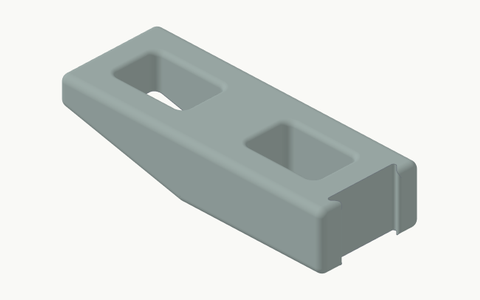
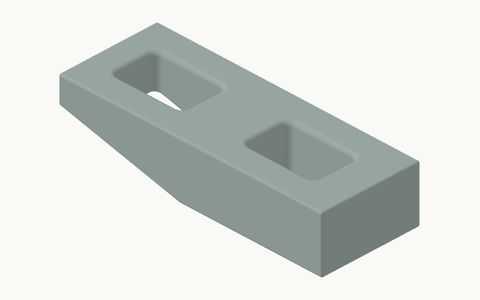
Refresh portable comfort-rounding gallery
Record the constrained rail-end radii, rerender the affected thumbnails, and bind the gallery inventory to the cross-platform geometry commit.\n\nCo-authored-by: Copilot App <223556219+Copilot@users.noreply.github.com>

diff --git a/tools/render_docs.py b/tools/render_docs.py
@@ -24,7 +24,7 @@ from cargo_grid.catalogue import BRACKET_DISPLAY_NAMES, accessory_variants
 ROOT = Path(__file__).resolve().parents[1]
 BUILD = BuildVolume(350, 320, 325)
 WORKBENCH_REVISION = "c3f63ef8d8604d3ec7eeba40a229047887c03d86"
-GEOMETRY_REVISION = "0cc079ee252b459930d032757fd16a28833005e7"
+GEOMETRY_REVISION = "c53211171c6830f05a10022e829bc279d91ea9d5"
 GEOMETRY_FILES = (
     "parameters.py",
     "interfaces.py",
@@ -668,7 +668,7 @@ def compose_all(work: Path, provenance: dict) -> None:
         "",
         "Normal `vertical-stop` names give base X cells, base Y cells and H60/H120 shoulder height. They are filled CAD wedges with no wall holes, panel connectors or ledges. The slicer still chooses perimeters and infill.",
         "",
-        "Original-style edge/corner bodies and rail outer bodies use R3. Plates and angled stops use R2. Brackets use R2 on thick free edges and R1 around the thin bearing lip; normal stops and ramps keep R2. Tile joints, rail joints, bracket bearing surfaces and X attachments keep their mating geometry.",
+        "Original-style edge/corner bodies and straight rail bodies use R3. The acute rail ends use smaller complete rounds where required by fit and portable STEP checks. Plates and angled stops use R2. Brackets use R2 on thick free edges and R1 around the thin bearing lip; normal stops and ramps keep R2. Tile joints, rail joints, bracket bearing surfaces and X attachments keep their mating geometry.",
         "",
         "Bambu projects put original brackets on their diagonal rear face, shallow brackets on a broad side, normal stops on their broad rear face and angled stops on their rear face before packing. STEP, STL and core 3MF keep model orientation. Ramps, normal stops and shallow brackets request object-level normal Auto support. Remove all support from mating regions before assembly.",
         "",

diff --git a/AGENTS.md b/AGENTS.md
@@ -13,7 +13,7 @@
 - Keep the eight `vertical-stop` variants at explicit 1x1, 1x2, 2x1 and 2x2 bases crossed with H60/H120 shoulder heights. They are full-width filled wedges with no wall holes, open ribs, panel plugs or ledges; 2x1/H120 uses the natural wedge, not a raised 45-degree toe. Preserve the coupled R2 blend on every free exterior edge and exact X plugs/roots. Object-scoped normal Auto is intentional; 1x1/H120 and 2x1/H120 support can enter the mounting region and require removal/fit review.
 - Keep both `lock-45` variants as full-width filled wedges, not the earlier open-backed wall/web construction. Preserve the 45-degree cargo face, 4.1 mm toe, 6 mm horizontal cap, R2 coupled across all 18 free body edges, exact X connectors/roots, unchanged outer bounds and X=-135-degree Bambu pose. Do not add object-scoped support; the bounded native OFF/Auto checks were support-free.
 - Bambu exports apply plate X=180 body-down, each original bracket's computed retangent rear-face-down X rotation, shallow-bracket Y=-90, per-design normal-stop broad-rear-face-down and angled-stop X=-135 before fit checks and packing; source STEP/STL/core 3MF retain model orientation. Record exact transforms and artifact-specific applied flags.
-- Use R3 on original-style edge/corner bodies and rail/support outer bodies, R3/R2 on rail windows, R2 on plate and angled-stop bodies, mixed R2/R1 on brackets, and R2 on normal stops/ramps. Apply exact tile/support dovetails and X connectors after rounding their nonfunctional bodies. Keep experimental full-height rounding separate. Do not relax geometry or mesh tolerances to accommodate kernel failures.
+- Use R3 on original-style edge/corner bodies and straight rail/support bodies, R3/R2 on straight rail windows, R2 on plate and angled-stop bodies, mixed R2/R1 on brackets, and R2 on normal stops/ramps. Rail ends use their tested per-variant body/window/rim radii from `accessories.py`; do not replace them with one blanket value. Apply exact tile/support dovetails and X connectors after rounding their nonfunctional bodies. Keep experimental full-height rounding separate. Do not relax geometry or mesh tolerances to accommodate kernel failures.
 - CLI names encode units and meaning: `--build-width-mm`, `--build-depth-mm`, `--build-height-mm`, `--tile-height-mm`, `--stop-height-mm`, named `*-mm` gaps/diameters, and explicit `--width-cells`/`--depth-cells`/`--length-cells` counts. Keep ramp callers on `--width-cells` only because its run is fixed. `--copy-count` repeats one design; layout width/depth describe the whole assembly. Do not restore positional `--cells`/`--footprint` or the old ambiguous options; manifest/API fields remain stable.
 - Read the relevant source/tests before editing. Validate generated geometry and exports, not just constants: body validity/count, positive volume, actual dimensions, interfaces, holes, layout and mesh topology. Do not relax tolerances, mesh-repair budgets or expected results merely to make a check pass.
 - Use `pyproject.toml` and normal `uv sync` with configured feeds. Keep `uv.lock`, environments, caches and runtime data ignored; do not add machine-specific registry URLs. Documentation-only rendering must not add runtime dependencies.

diff --git a/docs/attachments.md b/docs/attachments.md
@@ -14,7 +14,7 @@ Ramp names give width along the tile edge in 60 mm cells. Every ramp keeps the s
 
 Normal `vertical-stop` names give base X cells, base Y cells and H60/H120 shoulder height. They are filled CAD wedges with no wall holes, panel connectors or ledges. The slicer still chooses perimeters and infill.
 
-Original-style edge/corner bodies and rail outer bodies use R3. Plates and angled stops use R2. Brackets use R2 on thick free edges and R1 around the thin bearing lip; normal stops and ramps keep R2. Tile joints, rail joints, bracket bearing surfaces and X attachments keep their mating geometry.
+Original-style edge/corner bodies and straight rail bodies use R3. The acute rail ends use smaller complete rounds where required by fit and portable STEP checks. Plates and angled stops use R2. Brackets use R2 on thick free edges and R1 around the thin bearing lip; normal stops and ramps keep R2. Tile joints, rail joints, bracket bearing surfaces and X attachments keep their mating geometry.
 
 Bambu projects put original brackets on their diagonal rear face, shallow brackets on a broad side, normal stops on their broad rear face and angled stops on their rear face before packing. STEP, STL and core 3MF keep model orientation. Ramps, normal stops and shallow brackets request object-level normal Auto support. Remove all support from mating regions before assembly.
 
@@ -145,6 +145,6 @@ PYTHONPATH=src <workbench-python> tools/render_docs.py --workbench <workbench-ch
 
 Use the workbench's Python interpreter with Pillow already available; paths are supplied locally, not committed. In PowerShell, set `$env:PYTHONPATH='src'` before invoking that interpreter. The script checks geometry modules against the recorded commit, invokes STEP/inspection/render tools, then creates 5 overview PNGs and 56 family-scaled thumbnails. `--compose-only` reuses verified local STEP-derived renders; `--check` verifies the committed files and their one-to-one inventory mapping without Pillow. Intermediate STEP files and raw renders remain ignored. Layout is deterministic; raster bytes can depend on graphics/Pillow versions.
 
-Generator source revision: <code>0cc079ee<wbr>252b4599<wbr>30d03275<wbr>7fd16a28<wbr>833005e7</code>. Generator tree: <code>e3c37538<wbr>fd52c0d7<wbr>60869dad<wbr>70fafda7<wbr>403d3137</code>. Workbench revision: <code>c3f63ef8<wbr>d8604d3e<wbr>c7eeba40<wbr>a2290478<wbr>87c03d86</code>.
+Generator source revision: <code>c5321117<wbr>1c6830f0<wbr>5a10022e<wbr>829bc279<wbr>d91ea9d5</code>. Generator tree: <code>3cb3df7b<wbr>2e786d3e<wbr>55062198<wbr>9b477ee3<wbr>7184335a</code>. Workbench revision: <code>c3f63ef8<wbr>d8604d3e<wbr>c7eeba40<wbr>a2290478<wbr>87c03d86</code>.
 
 A successful render is not evidence of printability, physical fit, support release or third-party design rights.

diff --git a/docs/geometry.md b/docs/geometry.md
@@ -96,7 +96,7 @@ Each Bambu export computes its X rotation from the actual depth, height and R2 r
 
 Original-style edge and corner bodies use R3 before the unchanged tile-joint tools are applied. The asymmetric outer-corner tips are extended only along their free long axis before rounding so their published envelopes remain unchanged. Experimental full-height parts retain their existing selective R2/R1 construction.
 
-Rail and connector outer bodies use R3. Window corners use R3 and window rims use R2, except the acute first rail-end profile where the valid rim limit is R1.25. Male/female support dovetails are applied afterward from the shared exact tool. Attachment plates use R2 around the complete 4.1 mm body, then receive exact X plugs and R2 roots.
+Straight rail and connector outer bodies use R3, with R3 window corners and R2 window rims. Rail-end variants 1/2 are more constrained: variant 1 uses R0.75 on the body, R2.5 on window corners and R1 on window rims; variant 2 uses R1/R3/R2. Variants 3/4 use R3/R3/R2. These combinations preserve the support dovetails and satisfy both default and adaptive STEP-volume checks on macOS and Linux. Male/female support tools are applied afterward. Attachment plates use R2 around the complete 4.1 mm body, then receive exact X plugs and R2 roots.
 
 Angled `lock-45` stops retain a 4.1 mm front base/toe, a 6 mm horizontal cap thickness (about 4.243 mm normal to the 45-degree cargo face), unchanged outer bounds and exact X connectors/roots. One coupled operation applies R2 to all 18 free envelope edges. The 1x1 and 2x2 Bambu poses remain X=-135 degrees; bounded native 0.8/0.32 and 0.4/0.20 checks produced no support with either OFF or Auto.
 
